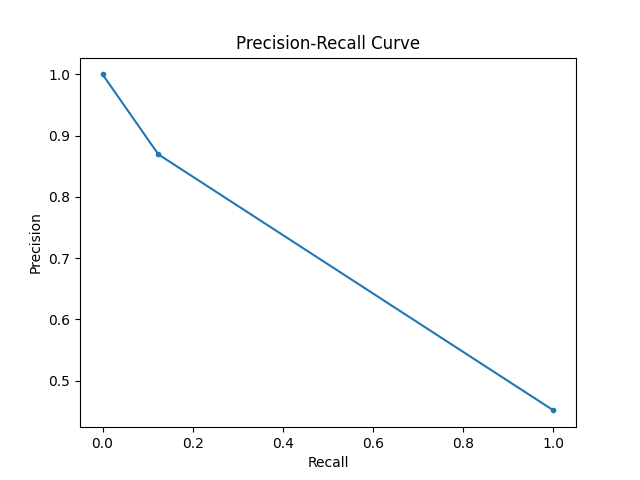
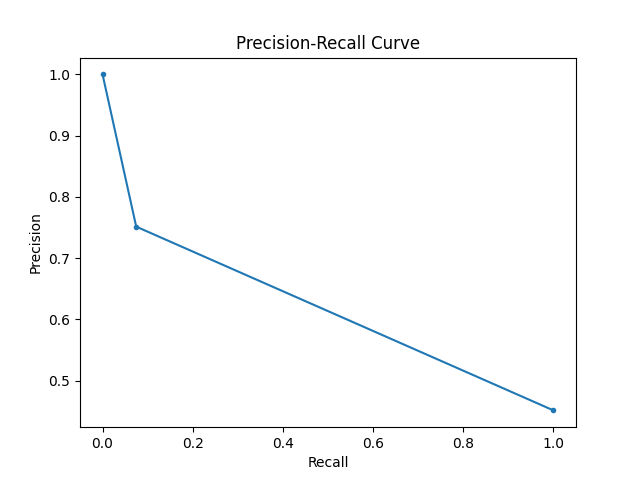
Update README with metrics and test results

diff --git a/README.md b/README.md
@@ -1,10 +1,10 @@
 ![Pylint Score](https://img.shields.io/badge/pylint-10.00-brightgreen)
 
-![accuracy](https://img.shields.io/badge/accuracy-0.5961-blue)
-![precision](https://img.shields.io/badge/precision-0.8694-blue)
-![recall](https://img.shields.io/badge/recall-0.1239-blue)
-![f1](https://img.shields.io/badge/f1-0.2168-blue)
-![roc_auc](https://img.shields.io/badge/roc_auc-0.5543-blue)
+![accuracy](https://img.shields.io/badge/accuracy-0.5712-blue)
+![precision](https://img.shields.io/badge/precision-0.7514-blue)
+![recall](https://img.shields.io/badge/recall-0.0747-blue)
+![f1](https://img.shields.io/badge/f1-0.1358-blue)
+![roc_auc](https://img.shields.io/badge/roc_auc-0.5272-blue)
 
 ![Test Status](https://img.shields.io/badge/tests-passed-brightgreen)
 
